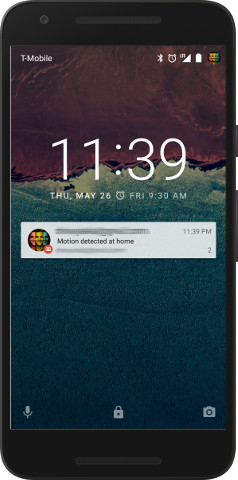
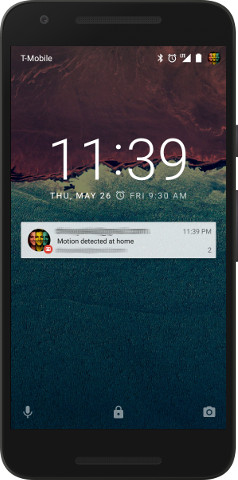
Changed back to higher resolution screenshot images to fix blurriness issue on mobile

Changed region(s): [[0.0294, 0.0938, 0.0588, 0.9062], [0.9412, 0.4062, 0.9706, 0.4375]]

diff --git a/index.html b/index.html
@@ -126,7 +126,7 @@
             <div class="row content">
               <div class="col s12 m5 push-m7 center-align">
                 <div class="img-wrapper">
-                  <img src="img/promotional/dashboard-desktop-dell-ultrasharp-298x240.jpg" alt="Dashboard view">
+                  <img src="img/promotional/dashboard-desktop-dell-ultrasharp-596x480.jpg" alt="Dashboard view">
                 </div>
               </div>
               <div class="col s12 m7 pull-m5 center-align-sm featurette-content">
@@ -140,7 +140,7 @@
             <div class="row content">
               <div class="col s12 m5 center-align">
                 <div class="img-wrapper">
-                  <img src="img/promotional/remote-desktop-mobile-410x240.jpg" alt="Remote viewing">
+                  <img src="img/promotional/remote-desktop-mobile-820x480.jpg" alt="Remote viewing">
                 </div>
               </div>
               <div class="col s12 m7 center-align-sm featurette-content">
@@ -154,7 +154,7 @@
             <div class="row content n-m-b">
               <div class="col s12 m5 push-m7 center-align">
                 <div class="img-wrapper">
-                  <img src="img/promotional/notification-nexus-5x-119x240.jpg" alt="Mobile alert">
+                  <img src="img/promotional/notification-nexus-5x-238x480.jpg" alt="Mobile alert">
                 </div>
               </div>
               <div class="col s12 m7 pull-m5 center-align-sm featurette-content">
